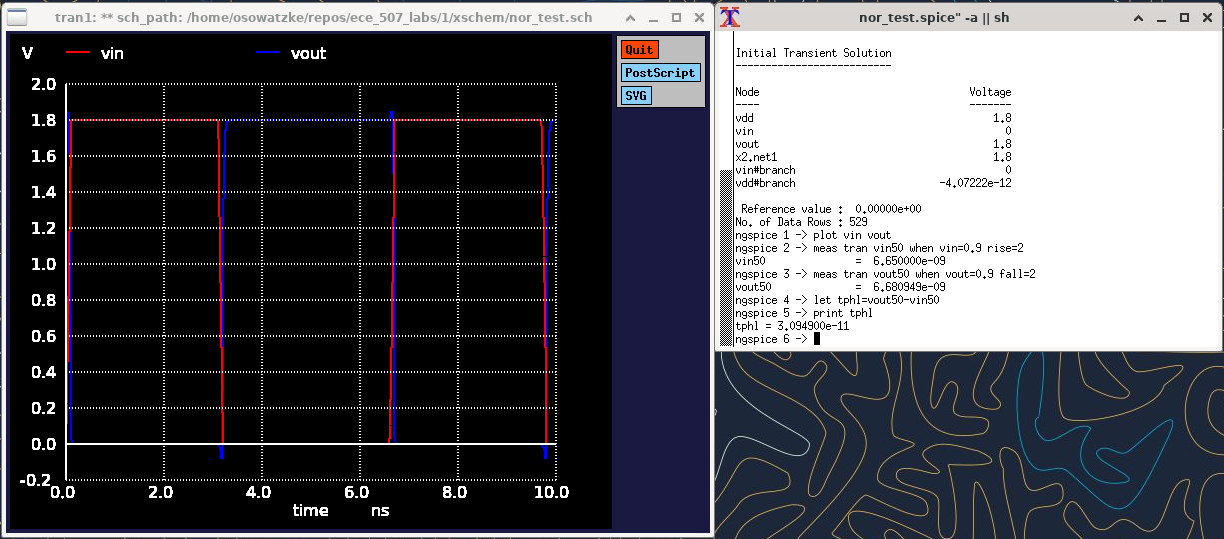
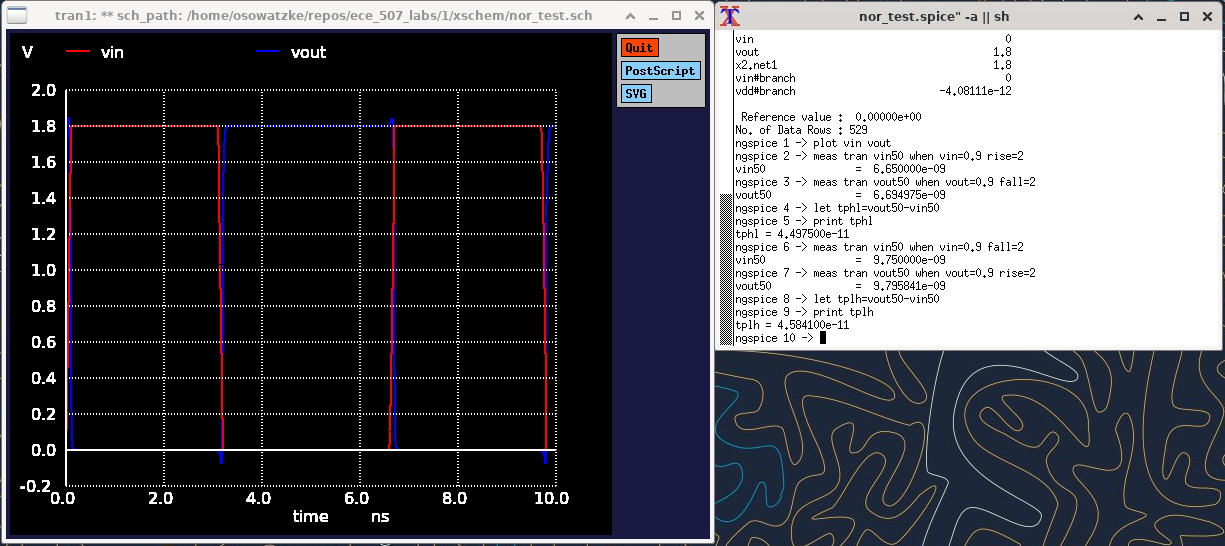
Saving NOR gate delay results

diff --git a/1/lab_report.tex b/1/lab_report.tex
@@ -506,51 +506,61 @@
 	
 	\subsubsection{Delay Analysis}
 	
-	In this section, we analyze the delay of the NOR gate by measuring the high to low propagation delay (\texttt{tphl}). To perform this analysis for independent variations of the input \texttt{a}, we use the following test circuit:
+	In this section, we analyze the propagation delay of the NOR gate. To do so, we need to measure both the high-to-low propagation delay (\texttt{tphl}) and the low-to-high propagation delay. We measure \texttt{tphl} for each of the transitions listed in Table \ref{table::nor_gate_high_to_low_transitions}, and we measure \texttt{tplh} for each of the transitions listed in Table \ref{table::nor_gate_low_to_high_transitions}.
 	
+	\begin{table}[H]
+	\begin{center}
+	\caption{Inputs that Create Low-to-High Transition for NOR Gate}
+	\label{table::nor_gate_low_to_high_transitions}
+	\begin{tabular}{| c | c |}
+		\hline
+		\texttt{a} & \texttt{b} \\
+		\hline	
+		$1 \rightarrow 0$ & $0$\\
+		\hline	
+		$0$ & $1 \rightarrow 0$\\
+		\hline	
+		$1 \rightarrow 0$ & $1 \rightarrow 0$\\
+		\hline
+	\end{tabular}
+	\end{center}
+	\end{table}
+	
+	\noindent For variations of \texttt{a} with \texttt{b=0}, we can use the test circuit shown in Figure \ref{fig::nor_delay_test_sweep_va} to measure propagation delays. Note the input waveforms contains both rising an falling edges, so we can use it to measure \texttt{tphl} and \texttt{tplh}.
+
 	\begin{figure}[H]
 		\centerline{\includegraphics[width=0.8\textwidth]{nor_delay_test_sweep_va.png}}
-		\caption{Test Circuit to Measure the Delay of the NOR Gate when Only Input \texttt{a} is Varied}
+		\caption{Test Circuit to Measure the Delay of the NOR Gate when \texttt{a} is Varied and \texttt{b=0}}
 		\label{fig::nor_delay_test_sweep_va}
 	\end{figure}
 	
-	Using the test circuit, we measure can measure the high-to-low propagation delay as follows:
+	\noindent Using the test circuit, we measure can measure \texttt{tphl} and \texttt{tplh} as follows:
 	
 	\begin{figure}[H]
 		\centerline{\includegraphics[width=0.8\textwidth]{nor_delay_sweep_va.png}}
-		\caption{\texttt{tphl} Measurement for the NOR Gate when Input Variations are Limited to Input \texttt{a}}
+		\caption{\texttt{tphl} Measurement for the NAND Gate when \texttt{a} is Varied and \texttt{b=0}}
 		\label{fig::nor_delay_sweep_va}
 	\end{figure}
 	
-	Examining the output results, we find that \texttt{tphl = 30.949 ps}. We can perform similar analysis to examine the impact of varying just the input \texttt{b}. The test circuits for this analysis is shown in Figures \ref{fig::nor_delay_test_sweep_vb} and the results are shown in Figure \ref{fig::nor_delay_sweep_vb}.
+	Examining the output results, we find that \texttt{tphl = 44.975 ps} for \texttt{a = }$0 \rightarrow 1$ and \texttt{b = 1}. Similarly, we find that \texttt{tphl = 45.841 ps} for \texttt{a = }$1 \rightarrow 0$ and \texttt{b = 0}. We perform similar analysis for the remaining transitions listed in Table \ref{table::nor_gate_high_to_low_transitions} and Table \ref{table::nor_gate_low_to_high_transitions}. Our results are summarized in Table \ref{table::nor_gate_delay_analysis}.
 	
-	\begin{figure}[H]
-		\centerline{\includegraphics[width=0.8\textwidth]{nor_delay_test_sweep_vb.png}}
-		\caption{Test Circuit to Measure the Delay of the NOR Gate when Only Input \texttt{b} is Varied}
-		\label{fig::nor_delay_test_sweep_vb}
-	\end{figure}
-	
-	\begin{figure}[H]
-		\centerline{\includegraphics[width=0.8\textwidth]{nor_delay_sweep_vb.png}}
-		\caption{\texttt{tphl} Measurement for the NOR Gate when Input Variations are Limited to Input \texttt{b}}
-		\label{fig::nor_delay_sweep_vb}
-	\end{figure}
-	
-	Examining the output results, we find that \texttt{tphl = 24.458 ps}. Finally, we can examine the impact of varying both inputs together. The test circuit for this analysis is shown in Figure  \ref{fig::nor_delay_test_sweep_va_vb} and the results are captured in Figure  \ref{fig::nor_delay_sweep_va_vb}.
-	
-	\begin{figure}[H]
-		\centerline{\includegraphics[width=0.8\textwidth]{nor_delay_test_sweep_va_vb.png}}
-		\caption{Test Circuit to Measure the Delay of the NOR Gate when Both Inputs are Varied Together}
-		\label{fig::nor_delay_test_sweep_va_vb}
-	\end{figure}
-	
-	\begin{figure}[H]
-		\centerline{\includegraphics[width=0.8\textwidth]{nor_delay_sweep_va_vb.png}}
-		\caption{\texttt{tphl} Measurement for the NOR Gate when Both Inputs are Varied Together}
-		\label{fig::nor_delay_sweep_va_vb}
-	\end{figure}
-	
-	Examining the output, we find that \texttt{tphl=14.681 ps}. Note that the delays are data dependent.
+	\begin{table}[H]
+	\begin{center}
+	\caption{Propagation Delays for Each Transition That Result in an Output Logic Level Change}
+	\label{table::nor_gate_delay_analysis}
+	\begin{tabular}{| c | c | c || c | c | c |}
+		\hline
+		\texttt{a} & \texttt{b} & \texttt{tphl} & \texttt{a} & \texttt{b} & \texttt{tplh} \\
+		\hline	
+		$0 \rightarrow 1$ & $0$ & $44.975\ \text{ps}$ & $1 \rightarrow 0$ & $0$ & $45.841\ \text{ps}$\\
+		\hline	
+		$0$ & $0 \rightarrow 1$ & $29.139\ \text{ps}$ & $0$ & $1 \rightarrow 0$ & $29.942\ \text{ps}$\\
+		\hline	
+		$0 \rightarrow 1$ & $0 \rightarrow 1$ & $22.437\ \text{ps}$ & $1 \rightarrow 0$ & $1 \rightarrow 0$ & $40.997\ \text{ps}$\\
+		\hline
+	\end{tabular}
+	\end{center}
+	\end{table}
 	
 	\subsubsection{Power Analysis}
 	
